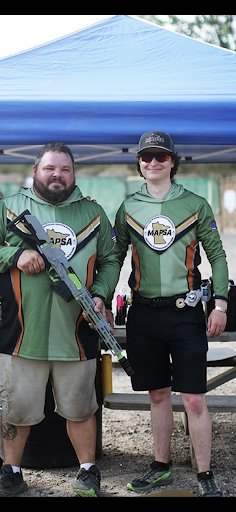
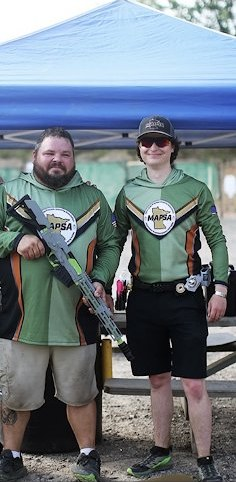
Photo headers per page with face-safe cropping, action-photo home hero, uncropped masonry gallery

diff --git a/schedule/index.html b/schedule/index.html
@@ -19,7 +19,7 @@
 <link rel="preconnect" href="https://fonts.googleapis.com">
 <link rel="preconnect" href="https://fonts.gstatic.com" crossorigin>
 <link href="https://fonts.googleapis.com/css2?family=Bebas+Neue&family=Kanit:wght@200;400&display=swap" rel="stylesheet">
-<link rel="stylesheet" href="/css/style.css?v=202609250235">
+<link rel="stylesheet" href="/css/style.css?v=202609250242">
 <script type="application/ld+json">{"@context": "https://schema.org", "@type": "SportsEvent", "name": "MAPSA USPSA Match", "startDate": "2026-03-07", "endDate": "2026-03-07", "eventStatus": "https://schema.org/EventScheduled", "eventAttendanceMode": "https://schema.org/OfflineEventAttendanceMode", "location": {"@type": "Place", "name": "MAPSA Range (Gate 3)", "address": {"@type": "PostalAddress", "streetAddress": "4880 240th St N", "addressLocality": "Forest Lake", "addressRegion": "MN", "postalCode": "55025", "addressCountry": "US"}}, "image": ["https://shootmapsa.com/images/event.jpg"], "description": "USPSA practical shooting match hosted by MAPSA in Forest Lake, MN. Register on PractiScore.", "organizer": {"@type": "Organization", "name": "MAPSA", "url": "https://shootmapsa.com/"}, "offers": {"@type": "Offer", "url": "https://practiscore.com/clubs/mapsa_at_flsc", "availability": "https://schema.org/InStock", "validFrom": "2026-01-01"}, "sport": "Practical shooting"}</script>
 <script type="application/ld+json">{"@context": "https://schema.org", "@type": "SportsEvent", "name": "MAPSA AT3 Cold War Carbine x Obsidian", "startDate": "2026-03-22", "endDate": "2026-03-22", "eventStatus": "https://schema.org/EventScheduled", "eventAttendanceMode": "https://schema.org/OfflineEventAttendanceMode", "location": {"@type": "Place", "name": "MAPSA Range (Gate 3)", "address": {"@type": "PostalAddress", "streetAddress": "4880 240th St N", "addressLocality": "Forest Lake", "addressRegion": "MN", "postalCode": "55025", "addressCountry": "US"}}, "image": ["https://shootmapsa.com/images/event.jpg"], "description": "Carbine practical shooting match hosted by MAPSA in Forest Lake, MN. Register on PractiScore.", "organizer": {"@type": "Organization", "name": "MAPSA", "url": "https://shootmapsa.com/"}, "offers": {"@type": "Offer", "url": "https://practiscore.com/clubs/mapsa_at_flsc", "availability": "https://schema.org/InStock", "validFrom": "2026-01-01"}, "sport": "Practical shooting"}</script>
 <script type="application/ld+json">{"@context": "https://schema.org", "@type": "SportsEvent", "name": "MAPSA USPSA Match", "startDate": "2026-04-04", "endDate": "2026-04-04", "eventStatus": "https://schema.org/EventScheduled", "eventAttendanceMode": "https://schema.org/OfflineEventAttendanceMode", "location": {"@type": "Place", "name": "MAPSA Range (Gate 3)", "address": {"@type": "PostalAddress", "streetAddress": "4880 240th St N", "addressLocality": "Forest Lake", "addressRegion": "MN", "postalCode": "55025", "addressCountry": "US"}}, "image": ["https://shootmapsa.com/images/event.jpg"], "description": "USPSA practical shooting match hosted by MAPSA in Forest Lake, MN. Register on PractiScore.", "organizer": {"@type": "Organization", "name": "MAPSA", "url": "https://shootmapsa.com/"}, "offers": {"@type": "Offer", "url": "https://practiscore.com/clubs/mapsa_at_flsc", "availability": "https://schema.org/InStock", "validFrom": "2026-01-01"}, "sport": "Practical shooting"}</script>
@@ -51,7 +51,7 @@
     <a class="btn header-cta" data-register href="https://practiscore.com/clubs/mapsa_at_flsc" target="_blank" rel="noopener">Match Registration</a>
   </div>
 </header>
-<div class="page-hero"><h1>Schedule</h1></div>
+<div class="page-hero" style="--hero:url(/images/hero-shooter.jpg);--pos:62% 30%"><h1>Schedule</h1></div>
 <main id="main">
 
 <section>
@@ -125,6 +125,6 @@
 </footer>
 <div class="lightbox"><img alt=""></div>
 <script>window.MAPSA_EVENTS=[{"start": "2026-03-07", "end": "2026-03-07", "name": "USPSA Match"}, {"start": "2026-03-22", "end": "2026-03-22", "name": "AT3 Cold War Carbine x Obsidian"}, {"start": "2026-04-04", "end": "2026-04-04", "name": "USPSA Match"}, {"start": "2026-04-18", "end": "2026-04-18", "name": "PCSL 2-Gun Match"}, {"start": "2026-05-02", "end": "2026-05-03", "name": "Vortex Optics Northwoods Showdown, presented by Hunter Constantine"}, {"start": "2026-05-23", "end": "2026-05-23", "name": "PCSL 2-Gun Points Series"}, {"start": "2026-06-20", "end": "2026-06-20", "name": "USPSA Match"}, {"start": "2026-07-25", "end": "2026-07-25", "name": "USPSA MN Section Points Match"}, {"start": "2026-09-12", "end": "2026-09-12", "name": "USPSA Match"}, {"start": "2026-09-27", "end": "2026-09-27", "name": "PCSL 2-Gun Points Series"}, {"start": "2026-10-03", "end": "2026-10-03", "name": "USPSA Match"}, {"start": "2026-10-10", "end": "2026-10-10", "name": "AT3 Tactical MN PCSL 2-Gun Championship, presented by Obsidian Arms"}];</script>
-<script src="/js/site.js?v=202609250235"></script>
+<script src="/js/site.js?v=202609250242"></script>
 </body>
 </html>

diff --git a/new-shooters/index.html b/new-shooters/index.html
@@ -19,7 +19,7 @@
 <link rel="preconnect" href="https://fonts.googleapis.com">
 <link rel="preconnect" href="https://fonts.gstatic.com" crossorigin>
 <link href="https://fonts.googleapis.com/css2?family=Bebas+Neue&family=Kanit:wght@200;400&display=swap" rel="stylesheet">
-<link rel="stylesheet" href="/css/style.css?v=202609250235">
+<link rel="stylesheet" href="/css/style.css?v=202609250242">
 <script type="application/ld+json">{"@context": "https://schema.org", "@type": "FAQPage", "mainEntity": [{"@type": "Question", "name": "What is practical shooting?", "acceptedAnswer": {"@type": "Answer", "text": "Practical shooting is a timed sport where you move through a course of fire (a &ldquo;stage&rdquo;), engaging paper and steel targets from different positions. Your score balances accuracy and speed. Every stage is run one shooter at a time under a Range Officer, so safety is built in."}}, {"@type": "Question", "name": "What is USPSA?", "acceptedAnswer": {"@type": "Answer", "text": "The United States Practical Shooting Association is the largest practical shooting organization in the country. USPSA matches are handgun matches with divisions for everything from stock pistols to fully customized race guns, so whatever you already own probably has a home. <a href=\"https://uspsa.org/rules\" target=\"_blank\" rel=\"noopener\">USPSA rules</a>."}}, {"@type": "Question", "name": "What is PCSL 2-Gun?", "acceptedAnswer": {"@type": "Answer", "text": "The Practical Competition Shooting League runs pistol and carbine matches. In 2-Gun you shoot both a pistol and a rifle/carbine, often on the same stage. <a href=\"https://www.pcsleague.us/\" target=\"_blank\" rel=\"noopener\">PCSL website</a>."}}, {"@type": "Question", "name": "Do I need experience to come shoot?", "acceptedAnswer": {"@type": "Answer", "text": "No. You should be able to safely handle and draw your firearm from a holster, but you don&rsquo;t need to be fast or have competed before. Tell your squad it&rsquo;s your first match &mdash; practical shooters love helping new people get started."}}, {"@type": "Question", "name": "What should I bring?", "acceptedAnswer": {"@type": "Answer", "text": "<ul><li>Eye and ear protection (required)</li><li>A pistol and a strong-side holster that fully covers the trigger guard</li><li>At least 3&ndash;4 magazines and magazine pouches</li><li>Enough ammo &mdash; the round count is listed on each match&rsquo;s PractiScore page (plus extra)</li><li>For 2-Gun: a carbine/rifle, magazines, and a sling or case</li><li>Weather-appropriate clothes, water, and snacks &mdash; it&rsquo;s Minnesota</li></ul>"}}, {"@type": "Question", "name": "How do I sign up for a match?", "acceptedAnswer": {"@type": "Answer", "text": "All MAPSA matches are listed on <a href=\"https://practiscore.com/clubs/mapsa_at_flsc\" target=\"_blank\" rel=\"noopener\">PractiScore</a> (search keyword <strong>MAPSA</strong>). Create a free PractiScore account, pick the match, choose your division, and register. Spots can fill up, so register early."}}, {"@type": "Question", "name": "Where are matches held?", "acceptedAnswer": {"@type": "Answer", "text": "4880 240th St N, Forest Lake, MN 55025 &mdash; use Gate 3. See the map on our <a href=\"/schedule/\">schedule page</a>."}}, {"@type": "Question", "name": "What are the basic safety rules?", "acceptedAnswer": {"@type": "Answer", "text": "Matches run on a <strong>cold range</strong>: arrive with your firearm unloaded, and only handle it in designated safe areas or when a Range Officer directs you on the line. Keep your finger off the trigger and the muzzle pointed downrange. Breaking a safety rule means a disqualification for the day &mdash; nobody gets hurt, and you come back next time."}}]}</script>
 </head>
 <body>
@@ -40,7 +40,7 @@
     <a class="btn header-cta" data-register href="https://practiscore.com/clubs/mapsa_at_flsc" target="_blank" rel="noopener">Match Registration</a>
   </div>
 </header>
-<div class="page-hero"><h1>New Shooters</h1><p>Everything you need for your first match</p></div>
+<div class="page-hero" style="--hero:url(/images/photo-4.jpg);--pos:50% 19%"><h1>New Shooters</h1><p>Everything you need for your first match</p></div>
 <main id="main">
 
 <section>
@@ -107,6 +107,6 @@
   </div>
 </footer>
 <div class="lightbox"><img alt=""></div>
-<script src="/js/site.js?v=202609250235"></script>
+<script src="/js/site.js?v=202609250242"></script>
 </body>
 </html>

diff --git a/index.html b/index.html
@@ -19,7 +19,7 @@
 <link rel="preconnect" href="https://fonts.googleapis.com">
 <link rel="preconnect" href="https://fonts.gstatic.com" crossorigin>
 <link href="https://fonts.googleapis.com/css2?family=Bebas+Neue&family=Kanit:wght@200;400&display=swap" rel="stylesheet">
-<link rel="stylesheet" href="/css/style.css?v=202609250235">
+<link rel="stylesheet" href="/css/style.css?v=202609250242">
 <script type="application/ld+json">{"@context": "https://schema.org", "@type": "SportsOrganization", "@id": "https://shootmapsa.com/#org", "name": "Metro Area Practical Shooting Association", "alternateName": "MAPSA", "url": "https://shootmapsa.com/", "logo": "https://shootmapsa.com/images/mapsa-logo.png", "image": "https://shootmapsa.com/images/og-image.jpg", "email": "shootmapsa@gmail.com", "sport": "Practical shooting", "sameAs": ["https://www.instagram.com/mapsa_mn"], "location": {"@type": "Place", "name": "MAPSA Range (Gate 3)", "address": {"@type": "PostalAddress", "streetAddress": "4880 240th St N", "addressLocality": "Forest Lake", "addressRegion": "MN", "postalCode": "55025", "addressCountry": "US"}}, "areaServed": "Minneapolis–Saint Paul, Minnesota"}</script>
 </head>
 <body>
@@ -40,7 +40,7 @@
     <a class="btn header-cta" data-register href="https://practiscore.com/clubs/mapsa_at_flsc" target="_blank" rel="noopener">Match Registration</a>
   </div>
 </header>
-<div class="hero"><img src="/images/mapsa-logo.png" alt="Metro Area Practical Shooting Association logo" width="360" height="360"><h1 class="sr-only">MAPSA &ndash; Metro Area Practical Shooting Association</h1><p class="hero-tag">USPSA &amp; PCSL 2-Gun matches &middot; Forest Lake, MN</p></div>
+<div class="hero hero-photo"><img src="/images/mapsa-logo.png" alt="Metro Area Practical Shooting Association logo" width="360" height="360"><h1 class="sr-only">MAPSA &ndash; Metro Area Practical Shooting Association</h1><p class="hero-tag"><span class="nw">USPSA &amp; PCSL 2-Gun Matches</span><br><span class="nw">Forest Lake, MN</span></p></div>
 <main id="main">
 
 <section>
@@ -111,6 +111,6 @@
 </footer>
 <div class="lightbox"><img alt=""></div>
 <script>window.MAPSA_EVENTS=[{"start": "2026-03-07", "end": "2026-03-07", "name": "USPSA Match"}, {"start": "2026-03-22", "end": "2026-03-22", "name": "AT3 Cold War Carbine x Obsidian"}, {"start": "2026-04-04", "end": "2026-04-04", "name": "USPSA Match"}, {"start": "2026-04-18", "end": "2026-04-18", "name": "PCSL 2-Gun Match"}, {"start": "2026-05-02", "end": "2026-05-03", "name": "Vortex Optics Northwoods Showdown, presented by Hunter Constantine"}, {"start": "2026-05-23", "end": "2026-05-23", "name": "PCSL 2-Gun Points Series"}, {"start": "2026-06-20", "end": "2026-06-20", "name": "USPSA Match"}, {"start": "2026-07-25", "end": "2026-07-25", "name": "USPSA MN Section Points Match"}, {"start": "2026-09-12", "end": "2026-09-12", "name": "USPSA Match"}, {"start": "2026-09-27", "end": "2026-09-27", "name": "PCSL 2-Gun Points Series"}, {"start": "2026-10-03", "end": "2026-10-03", "name": "USPSA Match"}, {"start": "2026-10-10", "end": "2026-10-10", "name": "AT3 Tactical MN PCSL 2-Gun Championship, presented by Obsidian Arms"}];</script>
-<script src="/js/site.js?v=202609250235"></script>
+<script src="/js/site.js?v=202609250242"></script>
 </body>
 </html>

diff --git a/css/style.css b/css/style.css
@@ -31,7 +31,10 @@ h3{font-size:1.8rem}
 /* Hero */
 .hero{background:#222 center/cover no-repeat;background-image:radial-gradient(ellipse at center,rgba(56,254,19,.12),transparent 60%),linear-gradient(180deg,#1f2323,#3a4140);padding:48px 16px;display:flex;justify-content:center}
 .hero img{width:min(360px,70vw);filter:drop-shadow(0 8px 24px rgba(0,0,0,.5))}
-.page-hero{background:var(--bg-dark) center/cover;background-image:linear-gradient(rgba(0,0,0,.55),rgba(0,0,0,.55)),url("../images/photo-2.jpg");padding:70px 16px;text-align:center}
+.page-hero{--hero:url("../images/hero-shooter.jpg");--pos:60% 30%;
+  background:linear-gradient(180deg,rgba(15,18,18,.55),rgba(15,18,18,.75)),var(--hero) var(--pos)/cover no-repeat,var(--bg-dark);
+  min-height:clamp(220px,26vw,360px);display:flex;flex-direction:column;justify-content:center;align-items:center;padding:48px 16px;text-align:center}
+.page-hero h1{text-shadow:0 2px 16px rgba(0,0,0,.6)}
 .page-hero h1{font-size:clamp(2.6rem,7vw,4.5rem);margin:0}
 
 /* Sections */
@@ -50,8 +53,9 @@ section{padding:64px 0}
 .link-list li{margin:.5em 0}
 .event{background:var(--bg-dark);border-left:4px solid var(--accent);border-radius:var(--radius);padding:20px 24px;margin:18px 0}
 .event h3{margin:0 0 .2em}
-.gallery{display:grid;gap:14px;grid-template-columns:repeat(auto-fill,minmax(260px,1fr))}
-.gallery img{border-radius:var(--radius);width:100%;aspect-ratio:4/3;object-fit:cover;cursor:zoom-in}
+.gallery{columns:3 260px;column-gap:14px}
+.gallery img{width:100%;height:auto;border-radius:var(--radius);margin:0 0 14px;break-inside:avoid;cursor:zoom-in;box-shadow:0 6px 18px rgba(0,0,0,.3);transition:transform .2s}
+.gallery img:hover{transform:scale(1.015)}
 .lightbox{position:fixed;inset:0;background:rgba(0,0,0,.9);display:none;align-items:center;justify-content:center;z-index:100;padding:16px}
 .lightbox.open{display:flex}
 .lightbox img{max-height:90vh;width:auto}
@@ -124,3 +128,17 @@ section{padding:64px 0}
 .faq[open] summary::after{content:"\2013"}
 .faq div{padding:0 0 18px}
 .faq ul{margin:.4em 0;padding-left:1.2em}
+
+/* Home hero with action photo */
+.hero-photo{background:linear-gradient(90deg,rgba(15,18,18,.92) 0%,rgba(15,18,18,.75) 45%,rgba(15,18,18,.25) 100%),url("../images/hero-shooter.jpg") 70% 30%/cover no-repeat,#1f2323;
+  flex-direction:row;justify-content:flex-start;align-items:center;gap:40px;padding:56px max(16px,calc((100vw - 1100px)/2 + 16px));min-height:clamp(340px,34vw,480px);text-align:left}
+.hero-photo img{width:min(300px,34vw)}
+.hero-photo .hero-tag{max-width:420px;font-size:clamp(1.6rem,3vw,2.4rem);line-height:1.15;margin:0;text-shadow:0 2px 12px rgba(0,0,0,.7)}
+@media (max-width:640px){
+  .hero-photo{flex-direction:column;justify-content:center;text-align:center;gap:18px;padding:40px 16px;
+    background:linear-gradient(180deg,rgba(15,18,18,.55),rgba(15,18,18,.85)),url("../images/hero-shooter.jpg") 62% 30%/cover no-repeat,#1f2323}
+  .hero-photo img{width:min(240px,62vw)}
+}
+/* Don't upscale small source photos */
+.split img{max-width:440px;justify-self:center;width:100%}
+@media (min-width:641px){.nw{white-space:nowrap}}

diff --git a/photos/index.html b/photos/index.html
@@ -19,7 +19,7 @@
 <link rel="preconnect" href="https://fonts.googleapis.com">
 <link rel="preconnect" href="https://fonts.gstatic.com" crossorigin>
 <link href="https://fonts.googleapis.com/css2?family=Bebas+Neue&family=Kanit:wght@200;400&display=swap" rel="stylesheet">
-<link rel="stylesheet" href="/css/style.css?v=202609250235">
+<link rel="stylesheet" href="/css/style.css?v=202609250242">
 
 </head>
 <body>
@@ -40,7 +40,7 @@
     <a class="btn header-cta" data-register href="https://practiscore.com/clubs/mapsa_at_flsc" target="_blank" rel="noopener">Match Registration</a>
   </div>
 </header>
-<div class="page-hero"><h1>Photos</h1></div>
+<div class="page-hero" style="--hero:url(/images/photo-2.jpg);--pos:50% 17%"><h1>Photos</h1></div>
 <main id="main">
 
 <section>
@@ -49,13 +49,12 @@
     <hr class="rule">
     <p class="lead">Moments captured from our latest club meets, shooting range days, and community gatherings.</p>
     <div class="gallery">
+      <img src="/images/photo-4.jpg" alt="Competitor running a pistol stage at a MAPSA match" loading="lazy">
       <img src="/images/photo-1.jpg" alt="Shooter engaging targets at a USPSA stage" loading="lazy">
-      <img src="/images/photo-4.jpg" alt="Competitor running a pistol stage" loading="lazy">
-      <img src="/images/photo-2.jpg" alt="MAPSA members with match sponsors" loading="lazy">
-      <img src="/images/photo-3.jpg" alt="MAPSA leadership at a match" loading="lazy">
       <img src="/images/photo-5.jpg" alt="MAPSA 2-Gun competitors at the range" loading="lazy">
+      <img src="/images/photo-3.jpg" alt="MAPSA leadership at a match" loading="lazy">
+      <img src="/images/photo-2.jpg" alt="MAPSA members with match sponsors" loading="lazy">
       <img src="/images/pcsl-2gun-2025.jpg" alt="2025 MN PCSL 2-Gun Championship flyer" loading="lazy">
-      <img src="/images/event.jpg" alt="MAPSA 2026 match schedule flyer" loading="lazy">
     </div>
     <p class="center" style="margin-top:32px"><a class="btn btn-outline" href="https://www.instagram.com/mapsa_mn" target="_blank" rel="noopener">More on Instagram</a></p>
   </div>
@@ -96,6 +95,6 @@
   </div>
 </footer>
 <div class="lightbox"><img alt=""></div>
-<script src="/js/site.js?v=202609250235"></script>
+<script src="/js/site.js?v=202609250242"></script>
 </body>
 </html>

diff --git a/about-us/index.html b/about-us/index.html
@@ -19,7 +19,7 @@
 <link rel="preconnect" href="https://fonts.googleapis.com">
 <link rel="preconnect" href="https://fonts.gstatic.com" crossorigin>
 <link href="https://fonts.googleapis.com/css2?family=Bebas+Neue&family=Kanit:wght@200;400&display=swap" rel="stylesheet">
-<link rel="stylesheet" href="/css/style.css?v=202609250235">
+<link rel="stylesheet" href="/css/style.css?v=202609250242">
 <script type="application/ld+json">{"@context": "https://schema.org", "@type": "SportsOrganization", "@id": "https://shootmapsa.com/#org", "name": "Metro Area Practical Shooting Association", "alternateName": "MAPSA", "url": "https://shootmapsa.com/", "logo": "https://shootmapsa.com/images/mapsa-logo.png", "image": "https://shootmapsa.com/images/og-image.jpg", "email": "shootmapsa@gmail.com", "sport": "Practical shooting", "sameAs": ["https://www.instagram.com/mapsa_mn"], "location": {"@type": "Place", "name": "MAPSA Range (Gate 3)", "address": {"@type": "PostalAddress", "streetAddress": "4880 240th St N", "addressLocality": "Forest Lake", "addressRegion": "MN", "postalCode": "55025", "addressCountry": "US"}}, "areaServed": "Minneapolis–Saint Paul, Minnesota"}</script>
 </head>
 <body>
@@ -40,7 +40,7 @@
     <a class="btn header-cta" data-register href="https://practiscore.com/clubs/mapsa_at_flsc" target="_blank" rel="noopener">Match Registration</a>
   </div>
 </header>
-<div class="page-hero"><h1>About Us</h1></div>
+<div class="page-hero" style="--hero:url(/images/photo-3.jpg);--pos:50% 22%"><h1>About Us</h1></div>
 <main id="main">
 
 <section>
@@ -101,6 +101,6 @@
   </div>
 </footer>
 <div class="lightbox"><img alt=""></div>
-<script src="/js/site.js?v=202609250235"></script>
+<script src="/js/site.js?v=202609250242"></script>
 </body>
 </html>

diff --git a/match-rules/index.html b/match-rules/index.html
@@ -19,7 +19,7 @@
 <link rel="preconnect" href="https://fonts.googleapis.com">
 <link rel="preconnect" href="https://fonts.gstatic.com" crossorigin>
 <link href="https://fonts.googleapis.com/css2?family=Bebas+Neue&family=Kanit:wght@200;400&display=swap" rel="stylesheet">
-<link rel="stylesheet" href="/css/style.css?v=202609250235">
+<link rel="stylesheet" href="/css/style.css?v=202609250242">
 
 </head>
 <body>
@@ -40,7 +40,7 @@
     <a class="btn header-cta" data-register href="https://practiscore.com/clubs/mapsa_at_flsc" target="_blank" rel="noopener">Match Registration</a>
   </div>
 </header>
-<div class="page-hero"><h1>Match Rules</h1></div>
+<div class="page-hero" style="--hero:url(/images/photo-1.jpg);--pos:40% 28%"><h1>Match Rules</h1></div>
 <main id="main">
 
 <section>
@@ -101,6 +101,6 @@
   </div>
 </footer>
 <div class="lightbox"><img alt=""></div>
-<script src="/js/site.js?v=202609250235"></script>
+<script src="/js/site.js?v=202609250242"></script>
 </body>
 </html>

diff --git a/404.html b/404.html
@@ -19,7 +19,7 @@
 <link rel="preconnect" href="https://fonts.googleapis.com">
 <link rel="preconnect" href="https://fonts.gstatic.com" crossorigin>
 <link href="https://fonts.googleapis.com/css2?family=Bebas+Neue&family=Kanit:wght@200;400&display=swap" rel="stylesheet">
-<link rel="stylesheet" href="/css/style.css?v=202609250235">
+<link rel="stylesheet" href="/css/style.css?v=202609250242">
 
 </head>
 <body>
@@ -40,7 +40,7 @@
     <a class="btn header-cta" data-register href="https://practiscore.com/clubs/mapsa_at_flsc" target="_blank" rel="noopener">Match Registration</a>
   </div>
 </header>
-<div class="page-hero"><h1>404</h1></div>
+<div class="page-hero" style="--hero:url(/images/hero-shooter.jpg);--pos:62% 30%"><h1>404</h1></div>
 <main id="main">
 
 <section>
@@ -87,6 +87,6 @@
   </div>
 </footer>
 <div class="lightbox"><img alt=""></div>
-<script src="/js/site.js?v=202609250235"></script>
+<script src="/js/site.js?v=202609250242"></script>
 </body>
 </html>

diff --git a/build.py b/build.py
@@ -193,7 +193,9 @@ def redirect(old, new):
         f'<meta http-equiv="refresh" content="0; url={new}"><script>location.replace("{new}"+location.hash)</script></head>'
         f'<body><p>This page moved to <a href="{new}">{DOMAIN}{new}</a>.</p></body></html>\n')
 
-def ph(t, sub=""): return f'<div class="page-hero"><h1>{t}</h1>{f"<p>{sub}</p>" if sub else ""}</div>'
+def ph(t, sub="", img="hero-shooter.jpg", pos="60% 30%"):
+    return (f'<div class="page-hero" style="--hero:url(/images/{img});--pos:{pos}">'
+            f'<h1>{t}</h1>{f"<p>{sub}</p>" if sub else ""}</div>')
 ADDR_Q = f"{ADDRESS['street']}, {ADDRESS['city']}, {ADDRESS['region']} {ADDRESS['zip']}".replace(" ", "+")
 MAP = f'<iframe class="map" src="https://www.google.com/maps?q={ADDR_Q}&amp;output=embed" title="Map to the MAPSA range" loading="lazy" referrerpolicy="no-referrer-when-downgrade"></iframe>'
 NEXT = '<div class="next-match" id="next-match" hidden></div>'
@@ -240,7 +242,7 @@ def build():
     <a class="btn btn-outline" href="{IG}" target="_blank" rel="noopener">@mapsa_mn on Instagram</a>
   </div>
 </section>''',
-         hero='<div class="hero"><img src="/images/mapsa-logo.png" alt="Metro Area Practical Shooting Association logo" width="360" height="360"><h1 class="sr-only">MAPSA &ndash; Metro Area Practical Shooting Association</h1><p class="hero-tag">USPSA &amp; PCSL 2-Gun matches &middot; Forest Lake, MN</p></div>',
+         hero='<div class="hero hero-photo"><img src="/images/mapsa-logo.png" alt="Metro Area Practical Shooting Association logo" width="360" height="360"><h1 class="sr-only">MAPSA &ndash; Metro Area Practical Shooting Association</h1><p class="hero-tag"><span class="nw">USPSA &amp; PCSL 2-Gun Matches</span><br><span class="nw">Forest Lake, MN</span></p></div>',
          extra_head=ld(ORG), events_js=True)
 
     cards = "\n".join(
@@ -266,7 +268,7 @@ def build():
 {cards}
     </div>
   </div>
-</section>''', hero=ph("About Us"), extra_head=ld(ORG))
+</section>''', hero=ph("About Us", img="photo-3.jpg", pos="50% 22%"), extra_head=ld(ORG))
 
     page("/schedule/", "2026 Match Schedule | MAPSA USPSA & PCSL 2-Gun, Forest Lake MN",
          "MAPSA's 2026 USPSA and PCSL 2-Gun match schedule in Forest Lake, MN, including the Northwoods Showdown and the MN PCSL 2-Gun Championship. Register on PractiScore.",
@@ -291,7 +293,7 @@ def build():
     {MAP}
     <p class="center"><a class="btn btn-outline" href="https://www.google.com/maps/dir/?api=1&amp;destination={ADDR_Q}" target="_blank" rel="noopener">Get Directions</a></p>
   </div>
-</section>''', hero=ph("Schedule"), extra_head="\n".join(ld(x) for x in event_ld()), events_js=True,
+</section>''', hero=ph("Schedule", img="hero-shooter.jpg", pos="62% 30%"), extra_head="\n".join(ld(x) for x in event_ld()), events_js=True,
          image="/images/event.jpg")
 
     faq_html = "\n".join(f'    <details class="faq"><summary>{q}</summary><div>{a}</div></details>' for q, a in FAQ)
@@ -322,7 +324,7 @@ def build():
 {faq_html}
     <p class="center" style="margin-top:32px">Still have questions? Email <a href="mailto:{EMAIL}">{EMAIL}</a> or DM us on <a href="{IG}" target="_blank" rel="noopener">Instagram</a>.</p>
   </div>
-</section>''', hero=ph("New Shooters", "Everything you need for your first match"), extra_head=ld(faq_ld),
+</section>''', hero=ph("New Shooters", "Everything you need for your first match", img="photo-4.jpg", pos="50% 19%"), extra_head=ld(faq_ld),
          image="/images/photo-1.jpg")
 
     page("/match-rules/", "Match Rules | USPSA & PCSL Rulebooks | MAPSA",
@@ -349,12 +351,14 @@ def build():
       </div>
     </div>
   </div>
-</section>''', hero=ph("Match Rules"))
+</section>''', hero=ph("Match Rules", img="photo-1.jpg", pos="40% 28%"))
 
-    photos = [("photo-1.jpg", "Shooter engaging targets at a USPSA stage"), ("photo-4.jpg", "Competitor running a pistol stage"),
-              ("photo-2.jpg", "MAPSA members with match sponsors"), ("photo-3.jpg", "MAPSA leadership at a match"),
-              ("photo-5.jpg", "MAPSA 2-Gun competitors at the range"), ("pcsl-2gun-2025.jpg", "2025 MN PCSL 2-Gun Championship flyer"),
-              ("event.jpg", "MAPSA 2026 match schedule flyer")]
+    photos = [("photo-4.jpg", "Competitor running a pistol stage at a MAPSA match"),
+              ("photo-1.jpg", "Shooter engaging targets at a USPSA stage"),
+              ("photo-5.jpg", "MAPSA 2-Gun competitors at the range"),
+              ("photo-3.jpg", "MAPSA leadership at a match"),
+              ("photo-2.jpg", "MAPSA members with match sponsors"),
+              ("pcsl-2gun-2025.jpg", "2025 MN PCSL 2-Gun Championship flyer")]
     imgs = "\n".join(f'      <img src="/images/{f}" alt="{a}" loading="lazy">' for f, a in photos)
     page("/photos/", "Photos | MAPSA Practical Shooting Matches",
          "Photos from MAPSA USPSA and PCSL 2-Gun matches and range days in Forest Lake, MN.",
@@ -369,7 +373,7 @@ def build():
     </div>
     <p class="center" style="margin-top:32px"><a class="btn btn-outline" href="{IG}" target="_blank" rel="noopener">More on Instagram</a></p>
   </div>
-</section>''', hero=ph("Photos"), image="/images/photo-2.jpg")
+</section>''', hero=ph("Photos", img="photo-2.jpg", pos="50% 17%"), image="/images/photo-2.jpg")
 
     page("/404.html", "Page Not Found | MAPSA", "This page doesn't exist.",
          '''
@@ -380,7 +384,7 @@ def build():
     <p class="lead">That page doesn&rsquo;t exist (anymore). Try one of these:</p>
     <p><a class="btn" href="/">Home</a> &nbsp; <a class="btn btn-outline" href="/schedule/">Schedule</a></p>
   </div>
-</section>''', hero=ph("404"))
+</section>''', hero=ph("404", img="hero-shooter.jpg", pos="62% 30%"))
 
     # Old WordPress + first-version URLs -> new pages
     for old, new in [("/gallery/", "/photos/"), ("/about.html", "/about-us/"), ("/schedule.html", "/schedule/"),
